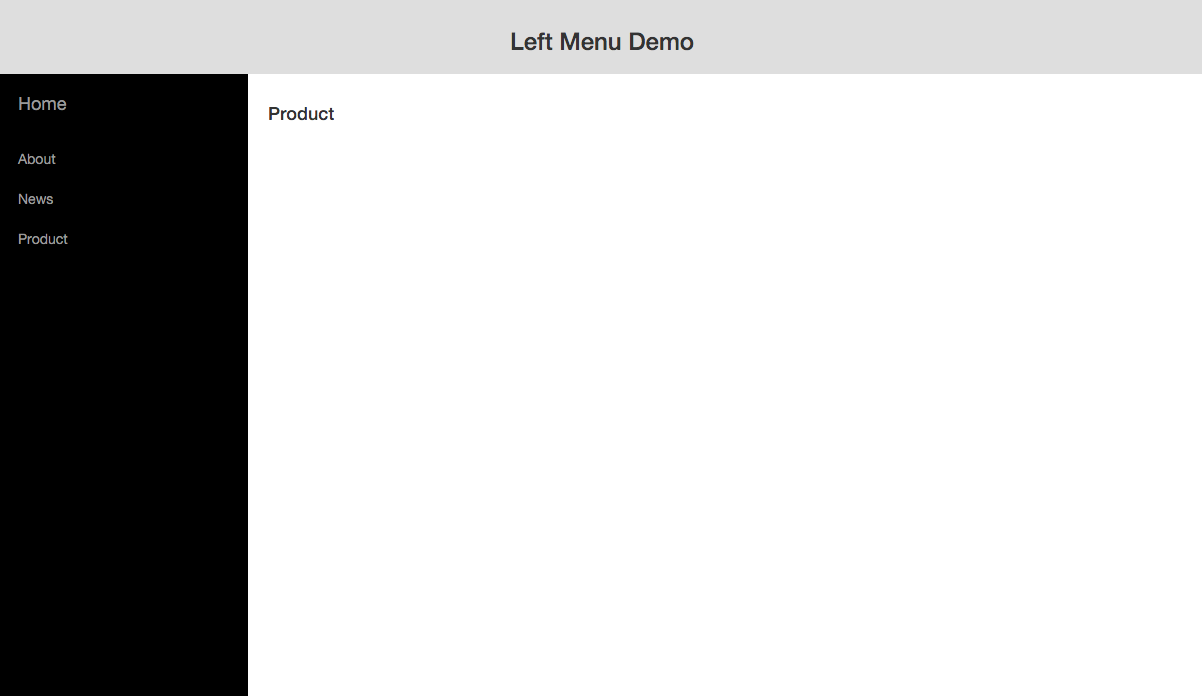
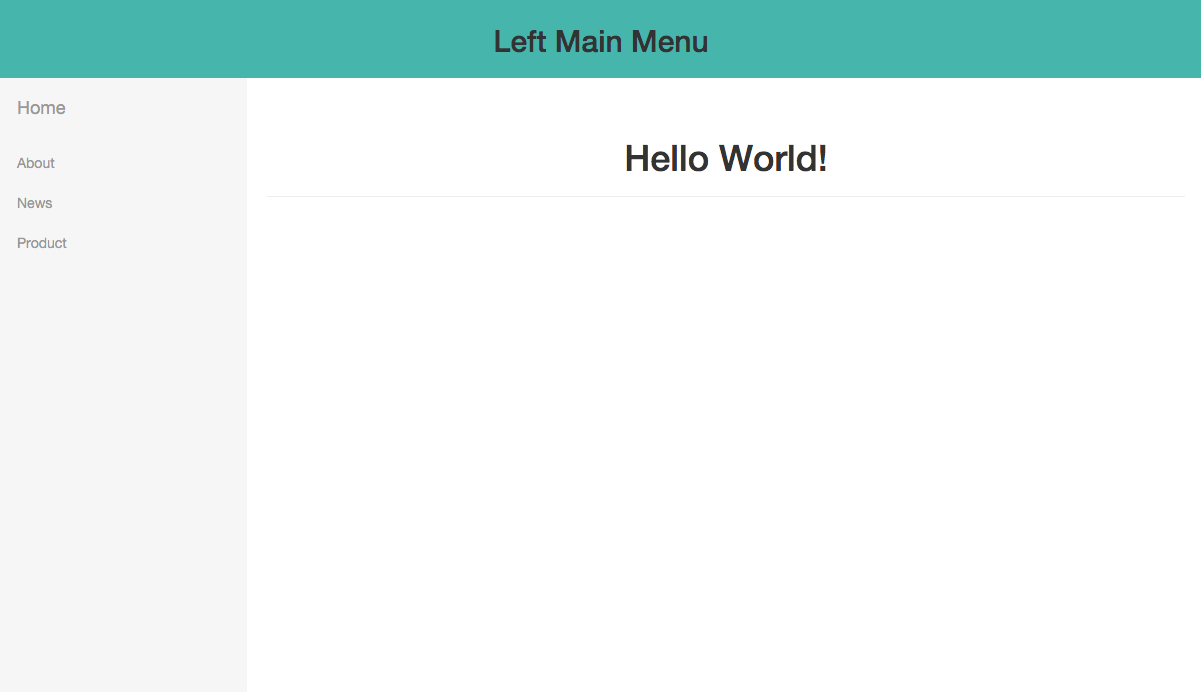
adjust the color themes of web templates

Changed region(s): [[0.0, 0.0, 1.0, 1.0], [0.5237, 0.2124, 0.7086, 0.2731]]

diff --git a/www/admin/themes/admin/blocks/views/website/info/info.html b/www/admin/themes/admin/blocks/views/website/info/info.html
@@ -2,13 +2,13 @@
     <div class="form-group">
         <label for="wsDomain" class="text-danger"><%=ph.domainLabel%></label>
         <input type="text" class="form-control" id="wsDomain" 
-                value="<%=value.domain || ''%>" placeholder="<%=ph.domainHolder%>">
+                value="<%=value.domain || bi.query.domain || ''%>" placeholder="<%=ph.domainHolder%>">
     </div>
 
     <div class="form-group manualMode">
         <label for="wsApp" class="text-danger"><%=ph.appLabel%></label>
         <input type="text" class="form-control" id="wsApp" 
-               value="<%=value.caCode || ''%>" placeholder="<%=ph.appHolder%>"
+               value="<%=value.caCode || bi.query.caCode || ''%>" placeholder="<%=ph.appHolder%>"
                <%= value.domain  ?  'disabled' : ''%>>
     </div>
 
@@ -19,7 +19,7 @@
     <div class="form-group">
         <label for="wsPath"><%=ph.pathLabel%></label>
         <input type="text" class="form-control" id="wsPath" 
-               value="<%=value.sitePath || ''%>" placeholder="<%=ph.pathHolder%>">
+               value="<%=value.sitePath || bi.query.sitePath || ''%>" placeholder="<%=ph.pathHolder%>">
     </div>
     <% } %>
 
@@ -32,13 +32,13 @@
     <div class="form-group manualMode">
         <label for="wsLocale"><%=ph.localeLabel%></label>
         <input type="text" class="form-control" id="wsLocale" 
-               value="<%=value.locale || ''%>" placeholder="<%=ph.localeHolder%>">
+               value="<%=value.locale || bi.query.locale || ''%>" placeholder="<%=ph.localeHolder%>">
     </div>
     
     <div class="form-group manualMode">
         <label for="wsHome"><%=ph.homeLabel%></label>
         <input type="text" class="form-control" id="wsHome" 
-               value="<%=value.home || ''%>" placeholder="<%=ph.homeHolder%>">
+               value="<%=value.home || bi.query.homePage || ''%>" placeholder="<%=ph.homeHolder%>">
     </div>
 </form>
 

diff --git a/www/admin/themes/admin/blocks/views/website/showTemplates/showTemplates.js b/www/admin/themes/admin/blocks/views/website/showTemplates/showTemplates.js
@@ -6,7 +6,8 @@ var  badgeHtml = '<a href="#" class="badge-ok">' +
         		 '</a>';
 
 ctrl.goBack = function()  {
-    ctrl.reload('/website/info');
+    var  pdata = collectParam();
+    ctrl.reload('/website/info', {params: pdata});
 }
 
 
@@ -25,16 +26,9 @@ ctrl.chooseTemplate = function(link, tempName)  {
 
 
 ctrl.create = function()  {
-    var  pdata = {
-            domain: ctrl.sel('#wsDomain').val(),
-            caCode: ctrl.sel('#wsApp').val(),
-            sitePath: ctrl.sel('#wsPath').val(),
-            title: ctrl.sel('#wsTitle').val(),
-            locale: ctrl.sel('#wsLocale').val(),
-            homePage: ctrl.sel('#wsHome').val(),
-            temName: curTempName,
-            doCreate: true
-         };
+    var  pdata = collectParam();
+    pdata.tempName = curTempName;
+    pdata.doCreate = true;
 
     $.post('/website/update.wsj', pdata, function(result) {
         alert( result.message );
@@ -42,4 +36,16 @@ ctrl.create = function()  {
         if (result.errCode === 0)
             document.location.reload();
     }, 'json');
+}
+
+
+function  collectParam()  {
+    return  {
+        domain: ctrl.sel('#wsDomain').val(),
+        caCode: ctrl.sel('#wsApp').val(),
+        sitePath: ctrl.sel('#wsPath').val(),
+        title: ctrl.sel('#wsTitle').val(),
+        locale: ctrl.sel('#wsLocale').val(),
+        homePage: ctrl.sel('#wsHome').val()
+    };
 }

diff --git a/www/admin/cont/resource/template/onePage/themes/onePage/layout/default/page.html b/www/admin/cont/resource/template/onePage/themes/onePage/layout/default/page.html
@@ -13,21 +13,21 @@
           <% css(); %>
         </style>
         <script type="text/javascript">
-      	<!--
-      	<% js(); %>
-      	$(document).ready(function() {
-          	$.ajaxSetup ({
-            		// Disable caching of AJAX responses
-            		cache: false
-          	});
-      	   __.initPage();
-      	});
-      	-->
+        <!--
+        <% js(); %>
+        $(document).ready(function() {
+            $.ajaxSetup ({
+                // Disable caching of AJAX responses
+                cache: false
+            });
+           __.initPage();
+        });
+        -->
         </script>
     </head>
 
     <body>
-        <div id="pgHead" class="blue lighten-2">
+        <div id="pgHead" class="teal lighten-2">
           <% block('/head'); %>
         </div>
         <div id="pgBody">
@@ -36,7 +36,7 @@
           <% block('/section/section2'); %>
           <% block('/section/section3'); %>
         </div>
-        <div id="pgFooter" class="blue lighten-2">
+        <div id="pgFooter" class="teal lighten-4">
           <% block('/foot'); %>
         </div>
     </body>

diff --git a/www/admin/themes/admin/blocks/modules/website/update.js b/www/admin/themes/admin/blocks/modules/website/update.js
@@ -161,12 +161,13 @@ function  removeDir(dir, cb)  {
 function  createSite(ctx, inData, cb)  {
 	var  domain = inData.domain,
          caCode = inData.caCode,
+         webTemplate = inData.tempName || DEFAULT_TEMP,
          theme = caCode;
 
     var  sitePath,
          wwwRoot,
          adminSite = siteUtil.lookupSite(ctx, 'admin'),
-         tempPath = path.join( adminSite.getRootPath(), '../../cont/resource/template/' + DEFAULT_TEMP );
+         tempPath = path.join( adminSite.getRootPath(), '../../cont/resource/template/' + webTemplate );
 
     if (inData.sitePath)
         wwwRoot = sitePath = path.join(inData.sitePath, caCode)
@@ -232,7 +233,7 @@ function  createSite(ctx, inData, cb)  {
         },
 
         function(cb)  {
-            var  oldp = path.join(wwwRoot, 'themes/' + DEFAULT_TEMP),
+            var  oldp = path.join(wwwRoot, 'themes/' + webTemplate),
                  newp = path.join(wwwRoot, 'themes/' + caCode);
             fs.rename(oldp, newp, cb);
         }

diff --git a/www/admin/cont/resource/template/onePage/themes/onePage/blocks/views/head/head.html b/www/admin/cont/resource/template/onePage/themes/onePage/blocks/views/head/head.html
@@ -1,0 +1,19 @@
+<a class="btn-large waves-effect waves-light teal lighten-4 btn-open" id="dropdown-button" data-beloworigin="true" href='javascript: void(0)' data-activates='menu-dropdown'>
+	<i class="material-icons">toc</i>
+</a>
+<!-- Dropdown Structure -->
+<ul id='menu-dropdown' class='dropdown-content'>
+	<li>
+		<a href="javascript: <%=ctrl%>.goToSection(0)" class="teal-text text-lighten-2" >Index</a>
+	</li>
+	<li>
+		<a href="javascript: <%=ctrl%>.goToSection(1)" class="teal-text text-lighten-2" >Section1</a>
+	</li>
+	<li>
+		<a href="javascript: <%=ctrl%>.goToSection(2)" class="teal-text text-lighten-2" >Section2</a>
+	</li>
+	<li>
+		<a href="javascript: <%=ctrl%>.goToSection(3)" class="teal-text text-lighten-2" >Section3</a>
+	</li>
+</ul>
+<h4>One Page Website</h4>

diff --git a/www/admin/cont/resource/template/leftbar/themes/leftbar/layout/default/page.css b/www/admin/cont/resource/template/leftbar/themes/leftbar/layout/default/page.css
@@ -1,20 +1,20 @@
 /* Add css rules here that are valid for the whole page */
 #pgHead {
-	text-align: center;
-	font-size: 18px;
+    text-align: center;
+    font-size: 18px;
 }
 
 #pgLeft {
-	float: left;
-	width: 240px;
+    float: left;
+    width: 240px;
 }
 
 #pgBody {
-	float: left;
+    float: left;
 }
 
 .clear {
-	clear: both;
+    clear: both;
 }
 
 
@@ -38,7 +38,7 @@
     height: 100%;
     margin-left: -250px;
     overflow-y: auto;
-    background: #000;
+    background: #f6f6f6;
     -webkit-transition: all 0.5s ease;
     -moz-transition: all 0.5s ease;
     -o-transition: all 0.5s ease;

diff --git a/www/admin/cont/resource/template/drawer/themes/drawer/layout/default/page.html b/www/admin/cont/resource/template/drawer/themes/drawer/layout/default/page.html
@@ -28,13 +28,13 @@
 
     <body>
         <div id="drawer-back"></div>
-        <div id="pgHead" class="red lighten-2">
+        <div id="pgHead" class="teal lighten-2">
            <% block('/head'); %>
         </div>
-        <div id="pgLeft" class="red lighten-2">
+        <div id="pgLeft" class="grey lighten-4">
            <% block('/drawer'); %>
         </div>
-        <div id="pgBody" class="teal lighten-2">
+        <div id="pgBody">
             <% block(); %>
         </div>
     </body>

diff --git a/www/admin/cont/resource/template/navbar/themes/navbar/blocks/views/head/head.css b/www/admin/cont/resource/template/navbar/themes/navbar/blocks/views/head/head.css
@@ -1,8 +1,16 @@
+.bg-teal {
+    background-color: #46b5ac;
+}
+
+.navbar a {
+    color: #fff;
+}
+
 .add-on > .btn {
 	border-left-width:0;
 	left:-2px;
-	-webkit-box-shadow: inset 0 1px 1px rgba(0, 0, 0, 0.075);
-	box-shadow: inset 0 1px 1px rgba(0, 0, 0, 0.075);
+	-webkit-box-shadow: inset 0 1px 1px rgba(70, 181, 172, 0.075);
+	box-shadow: inset 0 1px 1px rgba(70, 181, 172, 0.075);
 	height: 34px;
 	border-top-left-radius: 0px;
 	border-bottom-left-radius: 0px;

diff --git a/www/admin/cont/resource/template/drawer/themes/drawer/blocks/views/drawer/drawer.html b/www/admin/cont/resource/template/drawer/themes/drawer/blocks/views/drawer/drawer.html
@@ -1,4 +1,4 @@
- <nav class="red lighten-4">
+ <nav class="searchBox">
  	<div class="nav-wrapper">
  		<form>
  			<div class="input-field">
@@ -8,6 +8,6 @@
  		</form>
  	</div>
 </nav>
-<a class="btn-floating btn-large waves-effect waves-light red btn-close" onclick="<%=ctrl%>.closeDrawer()">
+<a class="btn-floating btn-large waves-effect waves-light teal lighten-2 btn-close" onclick="<%=ctrl%>.closeDrawer()">
 	<i class="material-icons">close</i>
 </a>

diff --git a/www/admin/themes/admin/blocks/views/website/showTemplates/showTemplates.html b/www/admin/themes/admin/blocks/views/website/showTemplates/showTemplates.html
@@ -28,8 +28,8 @@
         -->
     </div>
     <div class="flexImage">
-        <img class="wsPreview" src="/resource/template/single/doc/preview.png"
-             onclick="<%=ctrl%>.chooseTemplate(this, 'single');">
+        <img class="wsPreview" src="/resource/template/onePage/doc/preview.png"
+             onclick="<%=ctrl%>.chooseTemplate(this, 'onePage');">
     </div>
 </div>
 

diff --git a/www/admin/cont/resource/template/drawer/themes/drawer/blocks/views/head/head.html b/www/admin/cont/resource/template/drawer/themes/drawer/blocks/views/head/head.html
@@ -1,4 +1,4 @@
-<a class="btn-floating btn-large waves-effect waves-light red btn-open" onclick="<%=ctrl%>.openDrawer()">
+<a class="btn-floating btn-large waves-effect waves-light teal lighten-4 btn-open" onclick="<%=ctrl%>.openDrawer()">
 	<i class="material-icons">toc</i>
 </a>
 <h4>Drawer Style</h4>

diff --git a/www/admin/cont/resource/template/leftbar/themes/leftbar/blocks/views/head/head.html b/www/admin/cont/resource/template/leftbar/themes/leftbar/blocks/views/head/head.html
@@ -1,4 +1,4 @@
-<div class="head-layout" id="head-layout">
+<div id="head-layout">
 	<button type="button" class="btn btn-primary glyphicon glyphicon-align-justify btn-menu" id="btn-menu" onclick="<%=ctrl%>.showLeftMenu()"></button>
-	<h3>Left Menu Demo</h3>
+	<h2>Left Main Menu</h2>
 </div>
